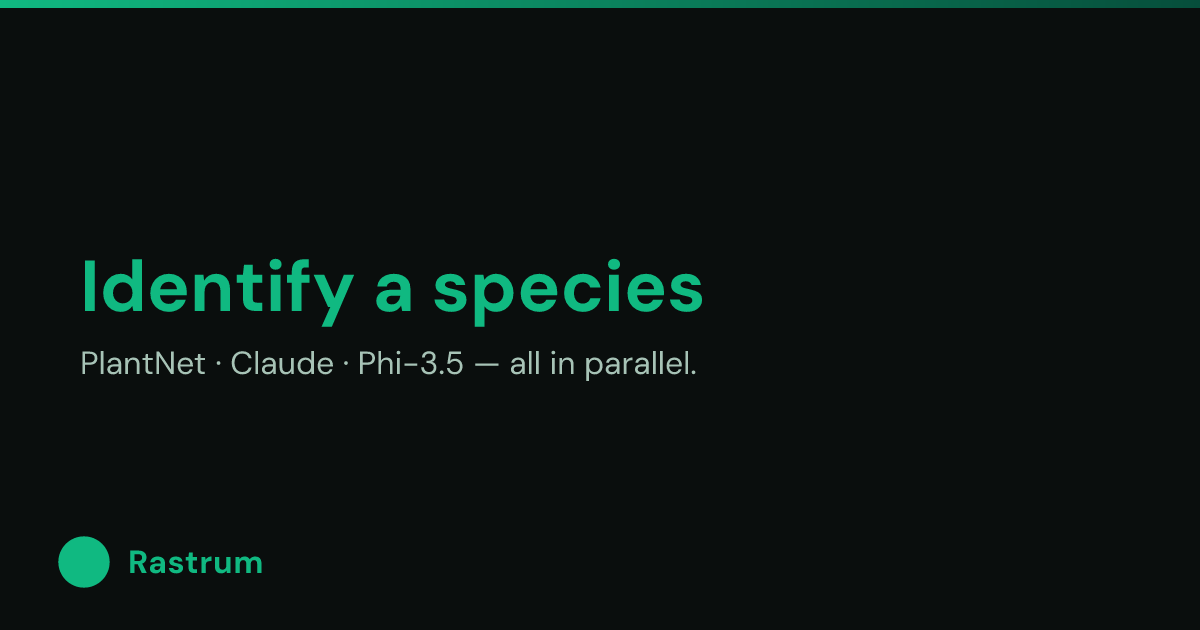
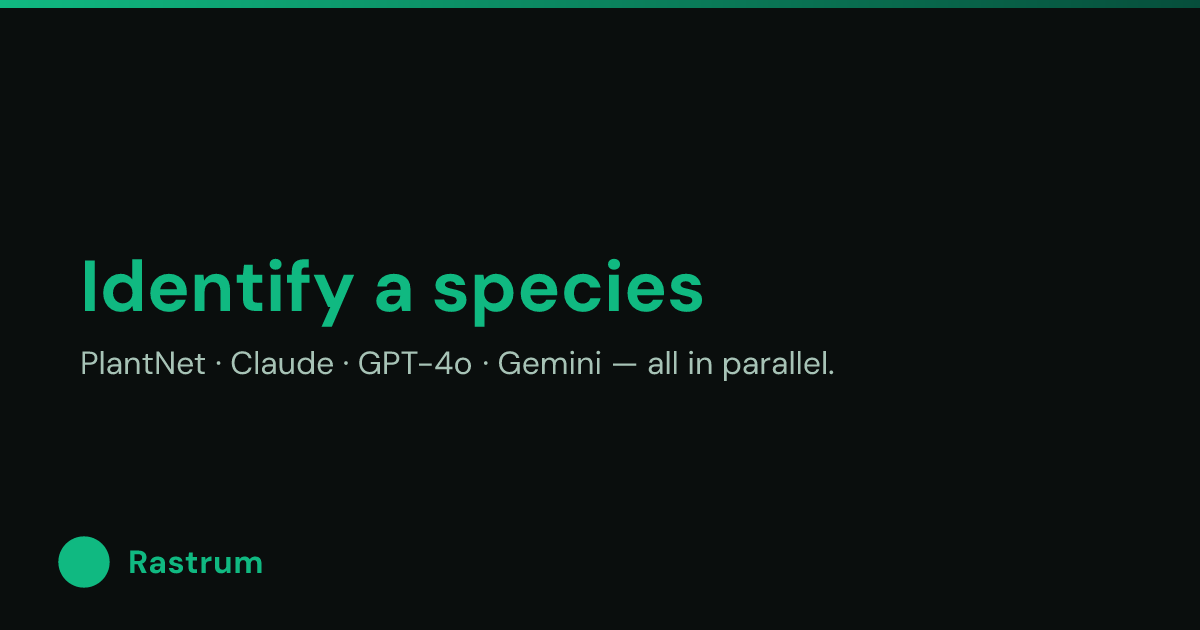
fix(og): remove Anthropic-specific copy from OG cards — use provider-agnostic text

Changed region(s): [[0.2775, 0.5429, 0.7092, 0.6032]]

diff --git a/scripts/generate-og.ts b/scripts/generate-og.ts
@@ -60,8 +60,8 @@ const PAGES: PageSpec[] = [
   {
     slug: 'identify',
     cards: {
-      en: { kind: 'static', title: 'Identify a species',            subtitle: 'PlantNet · Claude · Phi-3.5 — all in parallel.',                         accent: 'emerald' },
-      es: { kind: 'static', title: 'Identifica una especie',        subtitle: 'PlantNet · Claude · Phi-3.5 — todos en paralelo.',                       accent: 'emerald' },
+      en: { kind: 'static', title: 'Identify a species',            subtitle: 'PlantNet · Claude · GPT-4o · Gemini — all in parallel.',                accent: 'emerald' },
+      es: { kind: 'static', title: 'Identifica una especie',        subtitle: 'PlantNet · Claude · GPT-4o · Gemini — todos en paralelo.',              accent: 'emerald' },
     },
   },
   {
@@ -158,8 +158,8 @@ const PAGES: PageSpec[] = [
   {
     slug: 'sponsoring',
     cards: {
-      en: { kind: 'static', title: 'AI sponsorships',               subtitle: 'Share your Anthropic credential with specific beneficiaries. Caps + auto-pause.', accent: 'amber' },
-      es: { kind: 'static', title: 'Patrocinios de IA',             subtitle: 'Comparte tu credencial Anthropic con beneficiarios. Topes + auto-pausa.',  accent: 'amber' },
+      en: { kind: 'static', title: 'AI sponsorships',               subtitle: 'Share your AI credentials with specific beneficiaries. Caps + auto-pause.', accent: 'amber' },
+      es: { kind: 'static', title: 'Patrocinios de IA',             subtitle: 'Comparte tus credenciales de IA con beneficiarios. Topes + auto-pausa.',  accent: 'amber' },
     },
   },
   {
